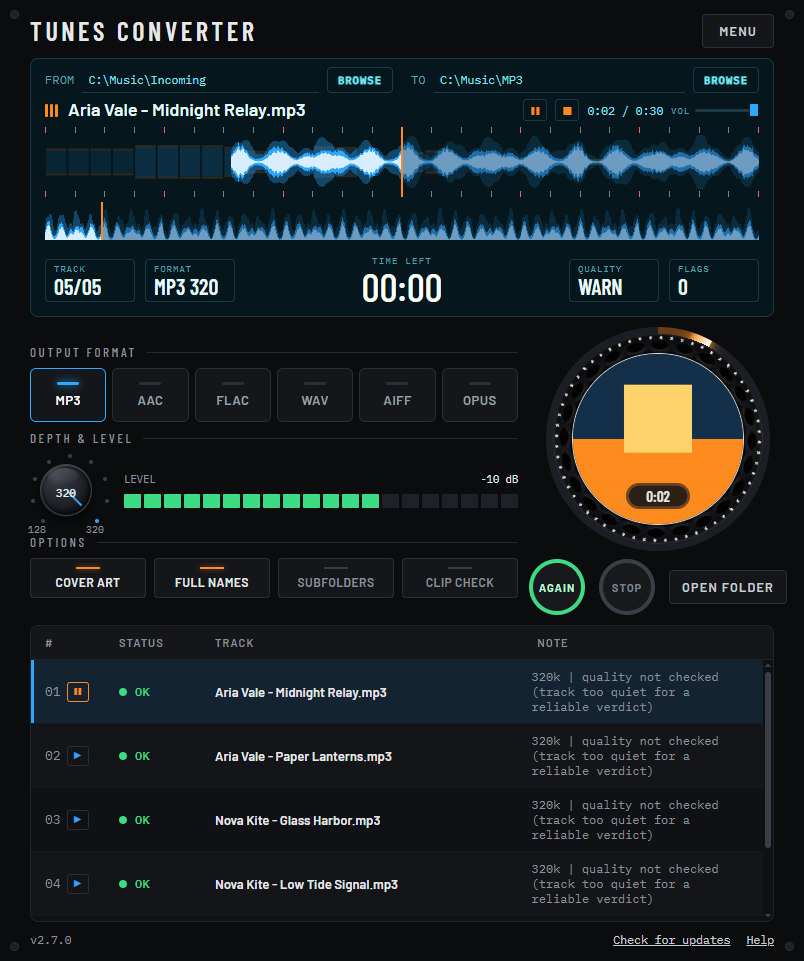
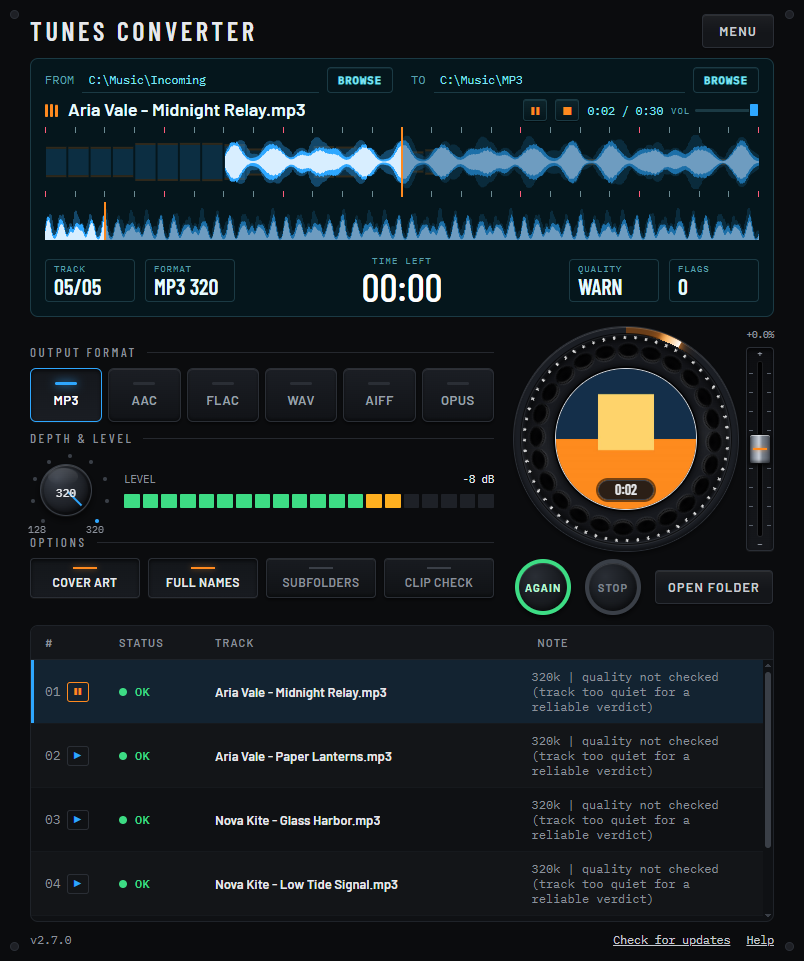
Playback: tempo fader beside the platter, smaller art on a thicker vinyl ring, restrained 3D on buttons and platter, per-channel waveform energy (phase-safe)

diff --git a/src/renderer/styles.css b/src/renderer/styles.css
@@ -59,15 +59,17 @@ h1 { margin: 0; font: 600 26px/1.1 var(--cond); letter-spacing: 0.14em; text-tra
   height: 36px; padding: 0 16px; border: 1px solid var(--edge); border-radius: 4px; background: var(--panel); color: var(--soft);
   font-size: 12.5px; font-weight: 600; letter-spacing: 0.1em; text-transform: uppercase; transition: background 0.12s, border-color 0.12s;
 }
-.btn:hover:not(:disabled) { background: #1c1f25; border-color: #3a3f47; }
+.btn { background-image: linear-gradient(180deg, rgba(255, 255, 255, 0.045), rgba(255, 255, 255, 0) 55%); box-shadow: inset 0 1px 0 rgba(255, 255, 255, 0.07), 0 1px 2px rgba(0, 0, 0, 0.45); }
+.btn:hover:not(:disabled) { background-color: #1c1f25; border-color: #3a3f47; }
+.btn:active:not(:disabled) { background-image: linear-gradient(180deg, rgba(0, 0, 0, 0.22), rgba(0, 0, 0, 0)); box-shadow: inset 0 2px 3px rgba(0, 0, 0, 0.55); }
 .btn:disabled { color: #626872; background: #101215; }
 .btn.gear { height: 34px; }
-.btn.mini { height: 26px; padding: 0 10px; font-size: 10.5px; border-color: var(--lcd-edge); background: transparent; color: var(--lcd-ink); }
-.btn.mini:hover:not(:disabled) { background: #0b2830; border-color: #2b5b69; }
+.btn.mini { height: 26px; padding: 0 10px; font-size: 10.5px; border-color: var(--lcd-edge); background: transparent; color: var(--lcd-ink); background-image: none; box-shadow: inset 0 1px 0 rgba(127, 227, 242, 0.08); }
+.btn.mini:hover:not(:disabled) { background-color: #0b2830; border-color: #2b5b69; }
 .btn.mini:disabled { background: transparent; color: #4b7c88; }
 .btn.small { height: 34px; padding: 0 14px; }
 .btn.primary { background: var(--blue); border-color: var(--blue); color: #04121c; }
-.btn.primary:hover:not(:disabled) { background: #5ab9ff; }
+.btn.primary:hover:not(:disabled) { background-color: #5ab9ff; }
 .btn.primary.small { width: auto; }
 
 /* screen */
@@ -85,8 +87,9 @@ h1 { margin: 0; font: 600 26px/1.1 var(--cond); letter-spacing: 0.14em; text-tra
 .title-row { display: flex; align-items: center; gap: 10px; min-width: 0; }
 .title-row .screen-title { flex: 1; min-width: 0; }
 .transport { flex: none; display: flex; align-items: center; gap: 8px; height: 24px; }
-.play-stop { width: 24px; height: 22px; padding: 0; border: 1px solid var(--lcd-edge); border-radius: 3px; background: transparent; color: var(--orange); font-size: 11px; line-height: 1; }
-.play-stop:hover:not(:disabled) { background: #0b2830; border-color: #2b5b69; }
+.play-stop { width: 24px; height: 22px; padding: 0; border: 1px solid var(--lcd-edge); border-radius: 3px; background: linear-gradient(180deg, rgba(127, 227, 242, 0.07), rgba(127, 227, 242, 0)); color: var(--orange); font-size: 11px; line-height: 1; box-shadow: inset 0 1px 0 rgba(127, 227, 242, 0.1), 0 1px 1px rgba(0, 0, 0, 0.5); }
+.play-stop:hover:not(:disabled) { background-color: #0b2830; border-color: #2b5b69; }
+.play-stop:active:not(:disabled) { background: rgba(0, 0, 0, 0.3); box-shadow: inset 0 2px 3px rgba(0, 0, 0, 0.6); }
 .play-stop:disabled { color: #4b7c88; }
 .play-time { font: 11.5px var(--mono); color: var(--lcd-ink); white-space: nowrap; }
 .tp-ctl { display: flex; align-items: center; gap: 5px; }
@@ -138,19 +141,21 @@ h1 { margin: 0; font: 600 26px/1.1 var(--cond); letter-spacing: 0.14em; text-tra
 .dropped { display: flex; flex-wrap: wrap; align-items: center; gap: 12px; padding: 10px 14px; border: 1px solid var(--edge); border-radius: 6px; color: var(--soft); font-size: 13px; }
 
 /* deck */
-.deck { display: grid; grid-template-columns: minmax(0, 1fr) 232px; gap: 24px; align-items: center; }
+.deck { display: grid; grid-template-columns: minmax(0, 1fr) 260px; gap: 20px; align-items: center; }
 .controls { display: flex; flex-direction: column; gap: 8px; min-width: 0; }
 .sec { display: flex; align-items: center; gap: 10px; font: 500 13px var(--cond); letter-spacing: 0.2em; color: var(--muted); }
 .sec i { flex: 1; height: 1px; background: #25282e; }
 .pads { display: grid; grid-template-columns: repeat(6, minmax(0, 1fr)); gap: 6px; }
 .pad {
-  height: 54px; border-radius: 6px; border: 1px solid var(--edge); background: var(--panel); color: #9aa0a9;
+  height: 54px; border-radius: 6px; border: 1px solid var(--edge); background: linear-gradient(180deg, #1b1e24, #111317); color: #9aa0a9;
+  box-shadow: inset 0 1px 0 rgba(255, 255, 255, 0.09), inset 0 -2px 3px rgba(0, 0, 0, 0.4), 0 2px 3px rgba(0, 0, 0, 0.5);
   display: flex; flex-direction: column; align-items: center; justify-content: center; gap: 7px;
   font-size: 13px; font-weight: 600; letter-spacing: 0.04em; padding: 0;
 }
 .pad .led { width: 22px; height: 3px; border-radius: 2px; background: var(--edge); }
 .pad:hover:not(:disabled) { border-color: #3a3f47; }
-.pad[aria-pressed="true"] { border-color: var(--blue); color: #fff; }
+.pad:active:not(:disabled), .opt:active:not(:disabled) { background: linear-gradient(180deg, #0e1013, #15181c); box-shadow: inset 0 2px 4px rgba(0, 0, 0, 0.7); }
+.pad[aria-pressed="true"] { border-color: var(--blue); color: #fff; background: linear-gradient(180deg, #14171c, #1a1d23); box-shadow: inset 0 2px 4px rgba(0, 0, 0, 0.6), 0 1px 0 rgba(255, 255, 255, 0.04); }
 .pad[aria-pressed="true"] .led { background: var(--blue); box-shadow: 0 0 10px var(--blue); }
 .pad:disabled:not([aria-pressed="true"]) { opacity: 0.55; }
 
@@ -189,20 +194,22 @@ h1 { margin: 0; font: 600 26px/1.1 var(--cond); letter-spacing: 0.14em; text-tra
 
 .opts { display: grid; grid-template-columns: repeat(4, minmax(0, 1fr)); gap: 8px; }
 .opt {
-  height: 40px; border-radius: 4px; border: 1px solid var(--edge); background: var(--panel); color: var(--muted);
+  height: 40px; border-radius: 4px; border: 1px solid var(--edge); background: linear-gradient(180deg, #181b20, #101215); color: var(--muted);
+  box-shadow: inset 0 1px 0 rgba(255, 255, 255, 0.08), inset 0 -2px 3px rgba(0, 0, 0, 0.35), 0 2px 3px rgba(0, 0, 0, 0.5);
   display: flex; flex-direction: column; align-items: center; justify-content: center; gap: 6px;
   font-size: 12px; font-weight: 600; letter-spacing: 0.04em; white-space: nowrap;
 }
 .opt .led { width: 24px; height: 2px; background: #3a3f47; }
 .opt:hover:not(:disabled) { border-color: #3a3f47; }
-.opt[aria-pressed="true"] { color: var(--ink); }
+.opt[aria-pressed="true"] { color: var(--ink); background: linear-gradient(180deg, #13161a, #181b20); box-shadow: inset 0 2px 4px rgba(0, 0, 0, 0.6), 0 1px 0 rgba(255, 255, 255, 0.04); }
 .opt[aria-pressed="true"] .led { background: var(--orange); box-shadow: 0 0 6px rgba(255, 138, 31, 0.6); }
 .opt:disabled { opacity: 0.6; }
 
 /* platter */
 .platter-col { display: flex; flex-direction: column; align-items: center; gap: 8px; }
-.platter { position: relative; width: 224px; height: 224px; border-radius: 50%; --p: 0; background: conic-gradient(var(--blue) 0 calc(var(--p) * 1%), #1b1e24 calc(var(--p) * 1%) 100%); }
-.ring-mask { position: absolute; inset: 7px; border-radius: 50%; background: var(--bg); }
+.jog { display: flex; align-items: stretch; gap: 8px; }
+.platter { position: relative; flex: none; width: 224px; height: 224px; border-radius: 50%; --p: 0; background: conic-gradient(var(--blue) 0 calc(var(--p) * 1%), #1b1e24 calc(var(--p) * 1%) 100%); box-shadow: inset 0 1px 0 rgba(255, 255, 255, 0.16), inset 0 -2px 3px rgba(0, 0, 0, 0.5), 0 0 0 1px #2a2e35, 0 3px 6px rgba(0, 0, 0, 0.6); }
+.ring-mask { position: absolute; inset: 7px; border-radius: 50%; background: var(--bg); box-shadow: 0 0 0 1px rgba(0, 0, 0, 0.7), 0 1px 0 1px rgba(255, 255, 255, 0.07), inset 0 2px 5px rgba(0, 0, 0, 0.7); }
 /* the disc turns (33 1/3 rpm = 1.8 s per turn); the progress ring and its marker stay put */
 .spin { position: absolute; inset: 0; border-radius: 50%; }
 .platter.record .spin { animation: platter-spin var(--rev, 1.8s) linear infinite; }
@@ -235,12 +242,13 @@ h1 { margin: 0; font: 600 26px/1.1 var(--cond); letter-spacing: 0.14em; text-tra
 .fill { position: absolute; width: 0; height: 0; overflow: hidden; }
 
 .actions { display: flex; align-items: center; gap: 14px; }
-.ringbtn { width: 56px; height: 56px; border-radius: 50%; border: 4px solid; background: #17191d; font-size: 11px; font-weight: 700; letter-spacing: 0.1em; padding: 0; }
+.ringbtn { width: 56px; height: 56px; border-radius: 50%; border: 4px solid; background: radial-gradient(circle at 34% 28%, #2a2e35 0, #1b1e23 45%, #121417 100%); font-size: 11px; font-weight: 700; letter-spacing: 0.1em; padding: 0; box-shadow: inset 0 1px 1px rgba(255, 255, 255, 0.14), inset -2px -3px 6px rgba(0, 0, 0, 0.5), 0 3px 5px rgba(0, 0, 0, 0.6); }
 .ringbtn.go { border-color: var(--green); color: #b8f5d2; }
-.ringbtn.go:hover:not(:disabled) { background: #1c2a22; }
+.ringbtn.go:hover:not(:disabled) { background: radial-gradient(circle at 34% 28%, #35503f 0, #1f2e26 50%, #151d18 100%); }
+.ringbtn:active:not(:disabled) { box-shadow: inset 0 3px 6px rgba(0, 0, 0, 0.75), 0 1px 1px rgba(0, 0, 0, 0.5); }
 .ringbtn.go:disabled { border-color: #1f5a38; color: #7d9488; }
 .ringbtn.halt { border-color: var(--orange); color: var(--orange); }
-.ringbtn.halt:hover:not(:disabled) { background: #2a2118; }
+.ringbtn.halt:hover:not(:disabled) { background: radial-gradient(circle at 34% 28%, #4d3a26 0, #2c2218 50%, #1a1510 100%); }
 .ringbtn.halt:disabled { border-color: #3a3f47; color: #7c828c; }
 .btn.wide { height: 34px; padding: 0 12px; white-space: nowrap; }
 
@@ -357,10 +365,10 @@ h1 { margin: 0; font: 600 26px/1.1 var(--cond); letter-spacing: 0.14em; text-tra
     radial-gradient(circle closest-side, #181a1f 0 79%, #121317 90%, #0b0c0e 96%, #20232a 100%);
   box-shadow: inset 0 0 0 1px rgba(255, 255, 255, 0.07), inset 0 3px 6px rgba(0, 0, 0, 0.6);
 }
-.platter.cdj .deck-face, .platter.cdj .art { inset: 27px; border: 0; box-shadow: 0 0 0 1px #d4dae1, 0 0 0 2.5px #040405, 0 0 7px 3px rgba(0, 0, 0, 0.55); }
+.platter.cdj .deck-face, .platter.cdj .art { inset: 42px; border: 0; box-shadow: 0 0 0 1px #d4dae1, 0 0 0 2.5px #040405, 0 0 7px 3px rgba(0, 0, 0, 0.55); }
 .platter.cdj .cdj-pockets { display: block; position: absolute; inset: 0; pointer-events: none; animation: platter-spin var(--rev, 1.8s) linear infinite; }
 .platter.cdj .cdj-pockets i {
-  position: absolute; left: 50%; top: 14px; width: 18px; height: 10px; margin-left: -9px; border-radius: 50%; transform-origin: 9px 98px;
+  position: absolute; left: 50%; top: 17px; width: 19px; height: 13px; margin-left: -9.5px; border-radius: 50%; transform-origin: 9.5px 95px;
   background: radial-gradient(ellipse at 50% 68%, #010102 0, #050506 50%, #101215 100%);
   box-shadow: inset 0 2px 3px rgba(0, 0, 0, 1), inset 0 -1px 1px rgba(255, 255, 255, 0.2), 0 0 0 1px rgba(0, 0, 0, 0.9), 0 1px 0 1px rgba(255, 255, 255, 0.13), 0 -1px 0 1px rgba(255, 255, 255, 0.05);
 }
@@ -386,5 +394,26 @@ h1 { margin: 0; font: 600 26px/1.1 var(--cond); letter-spacing: 0.14em; text-tra
   border-radius: 7px; font: 700 10px/14px var(--cond); text-align: center; color: #0b0c0e; box-shadow: 0 0 5px rgba(0, 0, 0, 0.7);
 }
 .platter.cdj .cdj-cue[hidden] { display: none; }
-.platter.cdj.has-art .hub { left: 82px; top: 158px; width: 60px; height: 22px; border-radius: 11px; background: rgba(14, 16, 20, 0.88); box-shadow: 0 0 0 2px rgba(5, 5, 6, 0.55); }
-.platter.cdj.has-art .hub-big { font-size: 15px; letter-spacing: 0; line-height: 1; }
+.platter.cdj.has-art .hub { left: 84px; top: 153px; width: 56px; height: 20px; border-radius: 10px; background: rgba(14, 16, 20, 0.88); box-shadow: 0 0 0 2px rgba(5, 5, 6, 0.55); }
+.platter.cdj.has-art .hub-big { font-size: 14px; letter-spacing: 0; line-height: 1; }
+/* CDJ-style tempo fader to the right of the platter */
+.fader { flex: none; width: 28px; height: 224px; display: flex; flex-direction: column; align-items: center; gap: 4px; transition: opacity 0.15s; }
+.fader.off { opacity: 0.4; }
+.fd-val { flex: none; width: 36px; height: 16px; margin: 0 -4px; padding: 0; border: 0; background: transparent; color: var(--lcd-ink); font: 500 9.5px/16px var(--mono); text-align: center; letter-spacing: -0.02em; }
+.fader.zero .fd-val { color: var(--muted); }
+.fader.off .fd-val { cursor: default; }
+.fd-track { position: relative; flex: 1; width: 100%; min-height: 0; border-radius: 4px; cursor: ns-resize; touch-action: none; user-select: none; --t: 0; background: linear-gradient(180deg, #0d0e11, #15171b); border: 1px solid var(--edge); box-shadow: inset 0 2px 4px rgba(0, 0, 0, 0.7), 0 1px 0 rgba(255, 255, 255, 0.05); }
+.fader.off .fd-track { cursor: default; }
+.fd-lab { position: absolute; left: 0; right: 0; text-align: center; font: 600 11px/10px var(--cond); color: var(--muted); }
+.fd-plus { top: 1px; } .fd-minus { bottom: 1px; }
+.fd-slot { position: absolute; left: 50%; top: 14px; bottom: 14px; width: 4px; margin-left: -2px; border-radius: 2px; background: #020203; box-shadow: inset 0 1px 2px #000, 0 0 0 1px rgba(255, 255, 255, 0.06); }
+.fd-ticks b { position: absolute; left: 50%; width: 22px; margin-left: -11px; height: 1px; top: calc(25px + (8 - var(--v)) / 16 * (100% - 50px)); background: linear-gradient(90deg, #5a616c 0 4px, transparent 4px 18px, #5a616c 18px 22px); }
+.fd-ticks b.mid { height: 2px; margin-top: -0.5px; background: linear-gradient(90deg, var(--soft) 0 6px, transparent 6px 16px, var(--soft) 16px 22px); }
+.fd-thumb {
+  position: absolute; left: 50%; width: 22px; height: 30px; margin-left: -11px; top: calc(10px + (8 - var(--t)) / 16 * (100% - 50px)); border-radius: 3px; border: 1px solid #0a0b0d;
+  background: linear-gradient(90deg, #4b515b 0, #8e96a1 22%, #c9cfd8 45%, #7b838e 62%, #4a5059 100%);
+  box-shadow: inset 0 1px 0 rgba(255, 255, 255, 0.5), inset 0 -2px 3px rgba(0, 0, 0, 0.45), 0 2px 4px rgba(0, 0, 0, 0.7);
+}
+.fd-thumb::after { content: ""; position: absolute; left: 3px; right: 3px; top: 50%; height: 2px; margin-top: -1px; background: #0c0d10; box-shadow: 0 1px 0 rgba(255, 255, 255, 0.35); }
+.fader.zero .fd-thumb::after { background: var(--orange); box-shadow: 0 0 4px rgba(255, 138, 31, 0.7); }
+.fd-track:focus-visible { outline: 2px solid var(--blue); outline-offset: 2px; }

diff --git a/src/renderer/renderer.js b/src/renderer/renderer.js
@@ -551,6 +551,35 @@
     if (audio) audio.volume = volume / 100;
     if (persist) { try { localStorage.setItem(VOL_KEY, String(volume)); } catch (err) { /* not saved */ } }
   }
+  // CDJ-style tempo fader: -8..+8 %, vinyl style (the pitch follows), 0 at the centre detent
+  let tempo = 0;
+  function applyRate() {
+    if (!audio) return;
+    const r = 1 + tempo / 100;
+    audio.defaultPlaybackRate = r; // a new src resets playbackRate to this
+    audio.playbackRate = r;
+    try { audio.preservesPitch = false; audio.webkitPreservesPitch = false; } catch (err) { /* vinyl-style pitch is optional */ }
+  }
+  function setTempo(t) {
+    tempo = clamp(Math.round(t * 10) / 10, -8, 8);
+    const txt = `${tempo < 0 ? '-' : '+'}${Math.abs(tempo).toFixed(1)}%`;
+    const f = $('tempo');
+    f.style.setProperty('--t', String(tempo));
+    f.setAttribute('aria-valuenow', String(tempo));
+    f.setAttribute('aria-valuetext', `${txt.replace('%', '')} percent`);
+    if ($('tempoVal').textContent !== txt) $('tempoVal').textContent = txt;
+    f.title = `Tempo ${txt} (double-click to reset)`;
+    $('tempoFader').classList.toggle('zero', tempo === 0);
+    applyRate();
+    renderSpin();
+  }
+  function syncTempoEnabled() {
+    const on = playState === 'playing';
+    $('tempoFader').classList.toggle('off', !on);
+    $('tempo').setAttribute('aria-disabled', on ? 'false' : 'true');
+    $('tempo').tabIndex = on ? 0 : -1;
+    $('tempoVal').disabled = !on;
+  }
   function togglePause() {
     if (playState !== 'playing' || !audio) return;
     if (audio.paused) audio.play().catch(() => {});
@@ -568,9 +597,10 @@
     renderSpin();
   }
 
-  // platter: 33 1/3 rpm = 1.8 s per turn; paused with the audio
+  // platter: 33 1/3 rpm = 1.8 s per turn, scaled by the tempo; paused with the audio
   function renderSpin() {
     const pl = $('track');
+    pl.style.setProperty('--rev', `${(1.8 / (1 + tempo / 100)).toFixed(3)}s`);
     const on = playState === 'playing';
     const rec = on && Boolean(settings().PlatterSpin);
     pl.classList.toggle('spinning', on);
@@ -686,6 +716,8 @@
     playState = 'idle';
     if (eqRaf) { cancelAnimationFrame(eqRaf); eqRaf = 0; }
     if (audio) { audio.pause(); audio.removeAttribute('src'); audio.load(); }
+    setTempo(0);
+    syncTempoEnabled();
     const prevRow = playRow;
     playRow = null;
     setRowPlaying(prevRow, false);
@@ -741,6 +773,8 @@
     lastMiniCol = -1;
     ctLast = -1;
     playState = 'playing';
+    syncTempoEnabled();
+    applyRate();
     $('eqIcon').hidden = false;
     setPlayStatus(baseName(name));
     showTransport(true);
@@ -1254,6 +1288,56 @@
       p.style.transform = `rotate(${i * 15}deg)`;
       pockets.appendChild(p);
     }
+    // tempo fader: drag, arrow keys (Shift / PageUp / PageDown = 1 %), Home resets, double-click or the readout resets
+    const fdTicks = $('fdTicks');
+    for (let v = 8; v >= -8; v -= 2) {
+      const b = document.createElement('b');
+      b.style.setProperty('--v', String(v));
+      if (v === 0) b.className = 'mid';
+      fdTicks.appendChild(b);
+    }
+    const fader = $('tempo');
+    const fdOn = () => playState === 'playing';
+    let fdDrag = false;
+    const fdSet = (e) => {
+      const r = fader.getBoundingClientRect();
+      const span = Math.max(1, r.height - 50); // thumb centre travels from 25 px to height - 25 px
+      const f = clamp((e.clientY - r.top - 25) / span, 0, 1);
+      let t = 8 - f * 16;
+      if (Math.abs(t) < 0.25) t = 0; // centre detent
+      setTempo(t);
+    };
+    fader.addEventListener('pointerdown', (e) => {
+      if (!fdOn() || e.button !== 0) return;
+      fdDrag = true;
+      try { fader.setPointerCapture(e.pointerId); } catch (err) { /* dragging still works while over it */ }
+      fader.focus({ preventScroll: true });
+      fdSet(e);
+      e.preventDefault();
+    });
+    fader.addEventListener('pointermove', (e) => { if (fdDrag) fdSet(e); });
+    const fdEnd = (e) => { fdDrag = false; try { fader.releasePointerCapture(e.pointerId); } catch (err) { /* already released */ } };
+    fader.addEventListener('pointerup', fdEnd);
+    fader.addEventListener('pointercancel', fdEnd);
+    fader.addEventListener('dblclick', () => { if (fdOn()) setTempo(0); });
+    fader.addEventListener('keydown', (e) => {
+      if (e.ctrlKey || e.altKey || e.metaKey) return;
+      const big = e.shiftKey ? 1 : 0.1;
+      let t = null;
+      if (e.key === 'ArrowUp' || e.key === 'ArrowRight') t = tempo + big;
+      else if (e.key === 'ArrowDown' || e.key === 'ArrowLeft') t = tempo - big;
+      else if (e.key === 'PageUp') t = tempo + 1;
+      else if (e.key === 'PageDown') t = tempo - 1;
+      else if (e.key === 'Home') t = 0;
+      else if (e.key === 'End') t = -8;
+      if (t === null) return;
+      e.preventDefault();
+      e.stopPropagation(); // the fader keeps its own arrow keys (not volume / seek)
+      if (fdOn()) setTempo(t);
+    });
+    $('tempoVal').addEventListener('click', () => { if (fdOn()) setTempo(0); });
+    setTempo(0);
+    syncTempoEnabled();
     // skim strip: click or drag to seek
     const ovFrac = (e) => { const r = $('mini').getBoundingClientRect(); return clamp((e.clientX - r.left) / (r.width || 1), 0, 1); };
     const ovShow = (e) => {

diff --git a/tests/v270.test.js b/tests/v270.test.js
@@ -243,6 +243,30 @@ test('waveformPeaks: rms and low bands match the peaks length and order loud/qui
   assert.equal(rbad.low.length, 0);
 });
 
+test('waveformPeaks: opposite-phase stereo still has rms and bass energy', async () => {
+  const d = fresh('wfphase');
+  const mk = (file, sign) => {
+    const rate = 22050; const n = rate;
+    const data = Buffer.alloc(n * 4);
+    for (let i = 0; i < n; i++) {
+      const s = Math.round(Math.sin(2 * Math.PI * 80 * i / rate) * 20000);
+      data.writeInt16LE(s, i * 4); data.writeInt16LE(sign * s, i * 4 + 2);
+    }
+    const h = Buffer.alloc(44);
+    h.write('RIFF', 0, 'latin1'); h.writeUInt32LE(36 + data.length, 4); h.write('WAVE', 8, 'latin1'); h.write('fmt ', 12, 'latin1');
+    h.writeUInt32LE(16, 16); h.writeUInt16LE(1, 20); h.writeUInt16LE(2, 22); h.writeUInt32LE(rate, 24); h.writeUInt32LE(rate * 4, 28);
+    h.writeUInt16LE(4, 32); h.writeUInt16LE(16, 34); h.write('data', 36, 'latin1'); h.writeUInt32LE(data.length, 40);
+    fs.writeFileSync(file, Buffer.concat([h, data]));
+  };
+  mk(path.join(d, 'in.wav'), 1);
+  mk(path.join(d, 'out.wav'), -1);
+  const a = await pb.waveformPeaks(path.join(d, 'in.wav'));
+  const b = await pb.waveformPeaks(path.join(d, 'out.wav'));
+  const avg = (x) => { let s = 0; for (let i = 10; i < 90; i++) s += x[i]; return s / 80; };
+  assert.ok(avg(b.rms) > 20 && avg(b.low) > 20, `${avg(b.rms)} ${avg(b.low)}`);
+  assert.ok(avg(b.rms) > avg(a.rms) / 1.5 && avg(b.low) > avg(a.low) / 1.5);
+});
+
 function makeArtMp3(dir, withArt) {
   const mp3 = path.join(dir, withArt ? 'art.mp3' : 'plain.mp3');
   if (!withArt) {

diff --git a/src/engine/playback.js b/src/engine/playback.js
@@ -244,9 +244,9 @@ async function waveformPeaks(wavFile, perSec = 100) {
     const sumSq = new Float64Array(bins);
     const lowSq = new Float64Array(bins);
     const cnt = new Int32Array(bins);
-    // one-pole low-pass (~175 Hz) on the mono mix: the bass / kick band
+    // one-pole low-pass (~175 Hz) per channel (energies averaged): the bass / kick band
     const alpha = 1 - Math.exp(-2 * Math.PI * 175 / rate);
-    let lp = 0;
+    const lp = new Float64Array(channels); // per-channel filter state
     const CHUNK = 1024 * 1024 - ((1024 * 1024) % frameBytes);
     let frame = 0; // global frame index
     let carry = Buffer.alloc(0);
@@ -260,17 +260,17 @@ async function waveformPeaks(wavFile, perSec = 100) {
       for (let f = 0; f < frames; f++) {
         const bin = Math.floor((frame + f) / binFrames);
         if (bin >= bins) break;
-        let sum = 0;
+        let sq = 0; let lsq = 0;
         for (let c = 0; c < channels; c++) {
           const s = buf.readInt16LE((f * channels + c) * 2);
-          sum += s;
           const v = s < 0 ? -s : s;
           if (v > maxArr[bin]) maxArr[bin] = v;
+          lp[c] += alpha * (s - lp[c]);
+          sq += s * s;
+          lsq += lp[c] * lp[c];
         }
-        const mono = sum / channels;
-        lp += alpha * (mono - lp);
-        sumSq[bin] += mono * mono;
-        lowSq[bin] += lp * lp;
+        sumSq[bin] += sq / channels;
+        lowSq[bin] += lsq / channels;
         cnt[bin] += 1;
       }
       frame += frames;

diff --git a/src/renderer/index.html b/src/renderer/index.html
@@ -181,6 +181,7 @@
     </div>
 
     <div class="platter-col">
+      <div class="jog">
       <div id="track" class="platter" role="progressbar" aria-label="Conversion progress" aria-valuemin="0" aria-valuemax="100" aria-valuenow="0">
         <div class="ring-mask"></div>
         <div class="cdj-vinyl" aria-hidden="true"></div>
@@ -201,6 +202,17 @@
           <span id="count" class="hub-c">0 / 0</span>
         </div>
         <div id="fill" class="fill" aria-hidden="true"></div>
+      </div>
+      <div id="tempoFader" class="fader off">
+        <button id="tempoVal" class="fd-val" type="button" tabindex="-1" title="Reset tempo to 0" aria-label="Reset tempo to 0">+0.0%</button>
+        <div id="tempo" class="fd-track" role="slider" tabindex="0" aria-label="Tempo" aria-orientation="vertical" aria-valuemin="-8" aria-valuemax="8" aria-valuenow="0" aria-valuetext="+0.0 percent" aria-disabled="true" title="Tempo (double-click to reset)">
+          <span class="fd-lab fd-plus" aria-hidden="true">+</span>
+          <span class="fd-lab fd-minus" aria-hidden="true">&minus;</span>
+          <span class="fd-slot" aria-hidden="true"></span>
+          <span id="fdTicks" class="fd-ticks" aria-hidden="true"></span>
+          <span class="fd-thumb" aria-hidden="true"></span>
+        </div>
+      </div>
       </div>
       <div class="actions">
         <button id="start" class="ringbtn go" type="button" aria-label="Start converting">START</button>

diff --git a/docs/HOWTO.md b/docs/HOWTO.md
@@ -114,7 +114,7 @@ Already have ffmpeg somewhere else? Press **Locate ffmpeg...** and choose the fo
 
 **Share presets:** under the presets in the Menu, **Export / Import presets as a file** saves your presets to a small file or adds presets from one. Imported names that already exist are skipped, and every value is checked.
 
-**Playback preview:** on by default (MENU: *Play converted tracks from the results list*). Click a converted track (OK or WARN) in the list to hear it; a track skipped as a duplicate, or because it already exists, plays the converted copy in the output folder. The button on the row is play / pause for that track (click another row to switch); the stop button on the screen stops it. While playing: the screen shows a scrolling waveform with the live EQ behind it; the strip under it shows the whole track as a half waveform, click or drag it to skim; the platter shows the CDJ-3000 look (still cover art in a black ring with finger pockets and a turning white rim, a playhead sweeping the outer ring; or, with the Settings box ticked, a spinning record) and the level meter shows the live level. Controls on the screen: pause, stop and VOL. Keys: Space pause, Left/Right 5 seconds, Up/Down volume. The track is decoded by ffmpeg into a temporary WAV so every format plays; the temporary file is deleted when you stop, start another track or quit. Only files in the output folder can be played, and playback never changes any file. It needs ffmpeg, like converting.
+**Playback preview:** on by default (MENU: *Play converted tracks from the results list*). Click a converted track (OK or WARN) in the list to hear it; a track skipped as a duplicate, or because it already exists, plays the converted copy in the output folder. The button on the row is play / pause for that track (click another row to switch); the stop button on the screen stops it. While playing: the screen shows a scrolling waveform with the live EQ behind it; the strip under it shows the whole track as a half waveform, click or drag it to skim; the platter shows the CDJ-3000 look (still cover art in a black ring with finger pockets and a turning white rim, a playhead sweeping the outer ring; or, with the Settings box ticked, a spinning record) and the level meter shows the live level. Controls on the screen: pause, stop and VOL. The tempo fader at the right of the platter goes from -8 % to +8 % like a CDJ (it changes the pitch too and the platter turns faster or slower); drag it, use its arrow keys (Shift or Page Up / Page Down = 1 %), double-click it or press Home to reset to 0. It resets when the track ends or you start another one. Keys: Space pause, Left/Right 5 seconds, Up/Down volume. The track is decoded by ffmpeg into a temporary WAV so every format plays; the temporary file is deleted when you stop, start another track or quit. Only files in the output folder can be played, and playback never changes any file. It needs ffmpeg, like converting.
 
 **Watch folder:** off by default. When on, new music files that appear in the songs folder (and its sub-folders if included) after you switch it on are converted automatically, once each, after they have finished copying. Files already in the folder are not touched. It stops when you switch it off or close the app.
 

diff --git a/README.md b/README.md
@@ -58,7 +58,7 @@ MP3 · AAC · FLAC · WAV · AIFF · Opus — with correct names, tags and an op
 - **Save report (optional):** a CSV report with each file's status, notes, flags and peak after every run.
 
 **The app**
-- **Playback preview (optional, on by default):** click a converted track in the list to hear it (a skipped duplicate plays the converted copy it matched). A scrolling waveform with bass-band structure, a half-waveform skim bar, live EQ and level meter, pause and volume, plus a CDJ-3000-style platter (still cover art in a black ring with finger pockets, white rim, sweeping playhead; a spinning-record look is in Settings). The row button toggles play / pause. It plays a temporary copy decoded by ffmpeg (deleted when you stop or quit); your files are never changed.
+- **Playback preview (optional, on by default):** click a converted track in the list to hear it (a skipped duplicate plays the converted copy it matched). A scrolling waveform with bass-band structure, a half-waveform skim bar, live EQ and level meter, pause and volume, plus a CDJ-3000-style platter (still cover art in a black ring with finger pockets, white rim, sweeping playhead; a spinning-record look is in Settings). The row button toggles play / pause. A slim tempo fader at the right of the platter (+/-8 %, double-click or click its readout to reset) speeds the track up or slows it down and changes the pitch too, like a CDJ. It plays a temporary copy decoded by ffmpeg (deleted when you stop or quit); your files are never changed.
 - **Built like DJ gear:** a CDJ-style screen with a live waveform while it converts, a round progress platter,
   lit format pads, and a track list with colour flags (red clipping, orange duplicate, pink quality, teal health,
   violet player).
